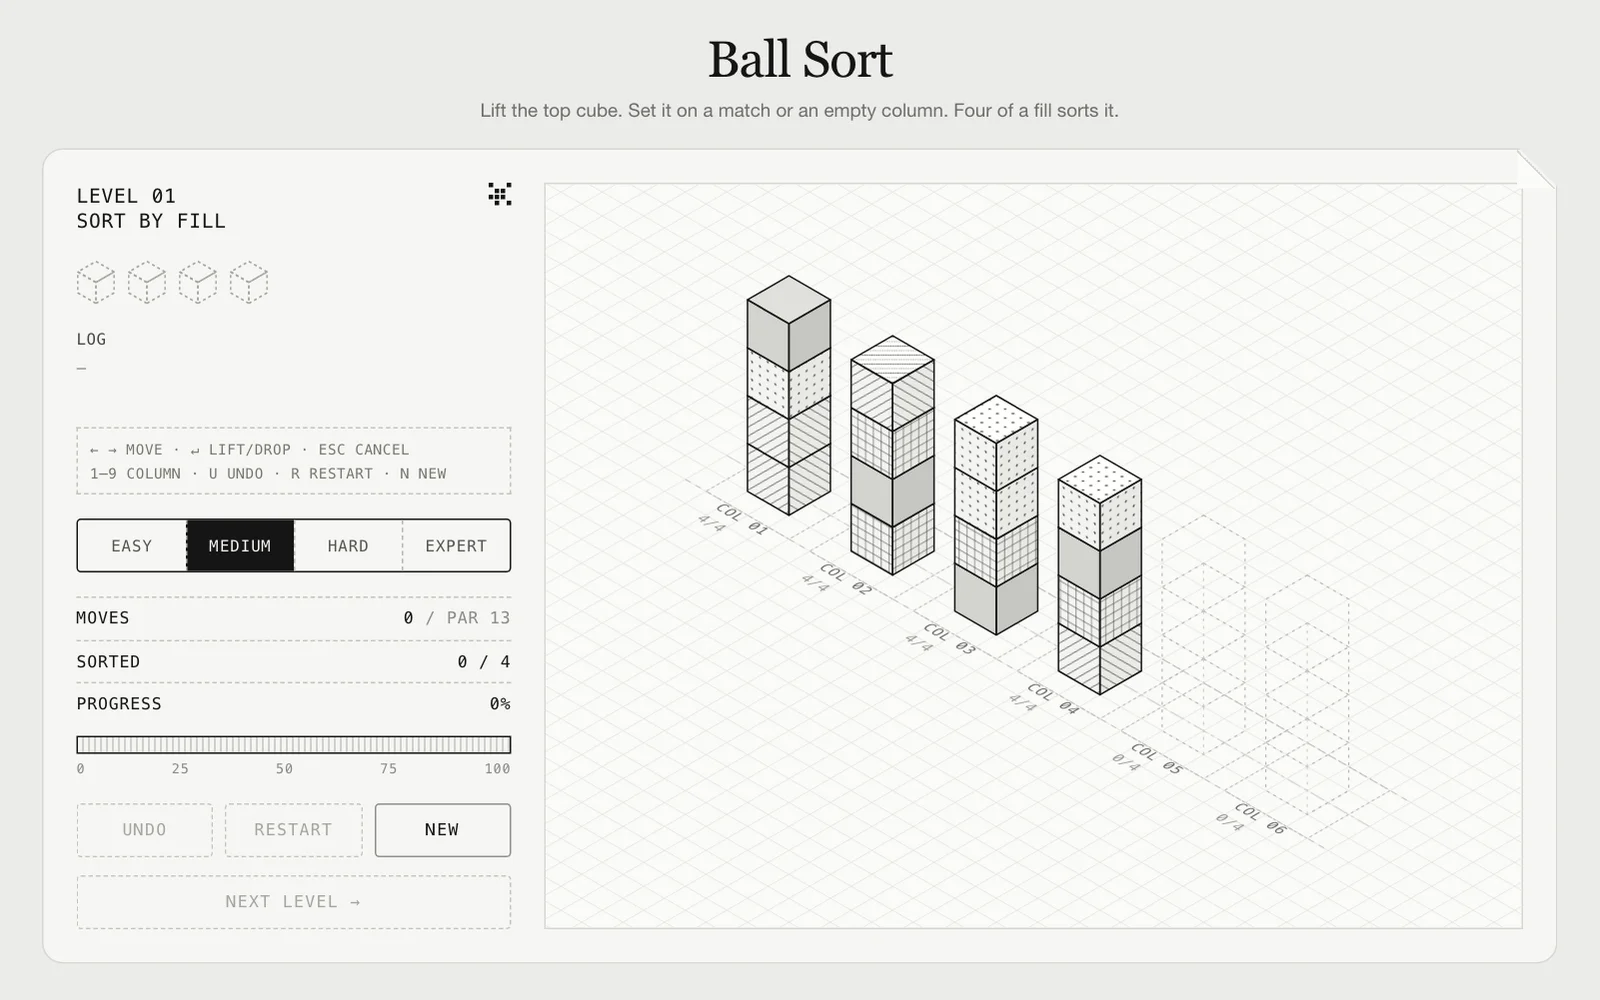
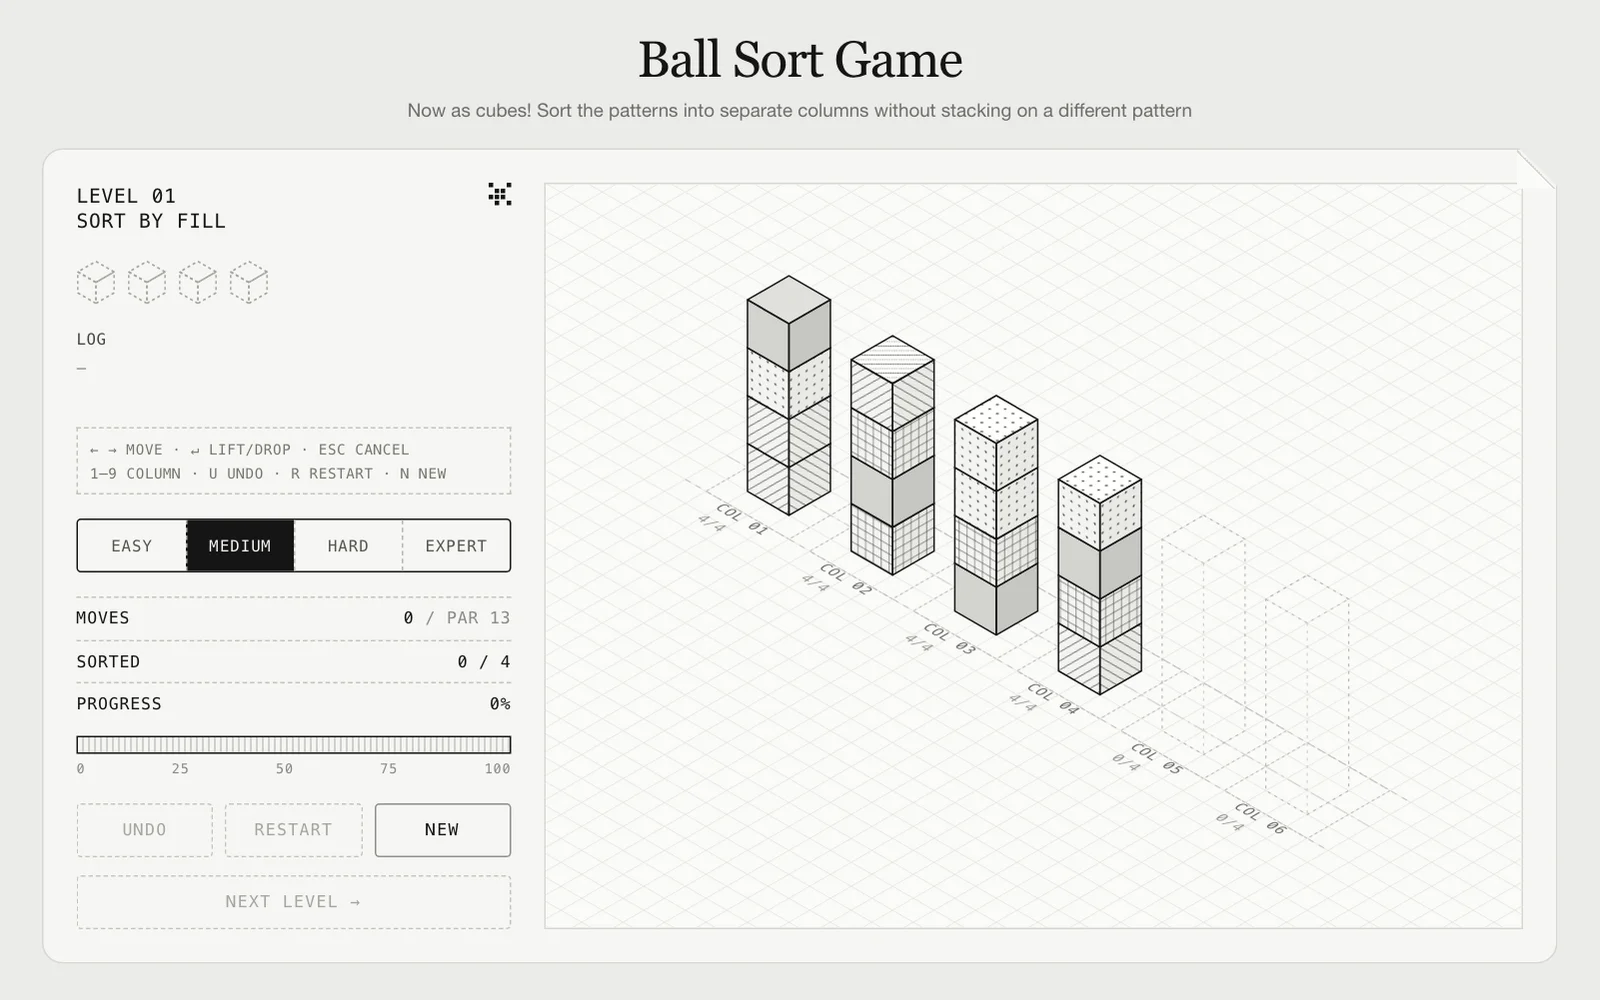
Ball sort: poster from v0.1.1, record 0.1.1 in embeds.json

Changed region(s): [[0.25, 0.031, 0.75, 0.124]]

diff --git a/src/content/demos/ball-sort-game.md b/src/content/demos/ball-sort-game.md
@@ -7,7 +7,7 @@ embed: ball-sort-game
 panel: closed
 poster:
   src: ./images/ball-sort-game.webp
-  alt: "A blueprint-style isometric drawing on graph paper: four columns of four cubes in mixed fills (solid grey, hatched, dotted, cross-hatched) and two empty dashed columns, beside a panel with a difficulty switch set to Medium, moves 0 of par 13, a progress bar, and Undo, Restart and New buttons"
+  alt: "Under the title Ball Sort Game, a blueprint-style isometric drawing on graph paper: four columns of four cubes in mixed fills (solid grey, hatched, dotted, cross-hatched) and two empty dashed columns, beside a panel with a difficulty switch set to Medium, moves 0 of par 13, a progress bar, and Undo, Restart and New buttons"
 notes: "Tap or click a column to lift its top cube, then another to drop it; on a desktop, drag it or use the arrow keys and Enter. U undoes, R restarts, N deals a new level. Every level is generated from a seed and checked solvable, with par the fewest moves it takes."
 credits: "Built in 2022; redrawn in 2026 as a blueprint, with fills told apart by pattern rather than color."
 draft: false
